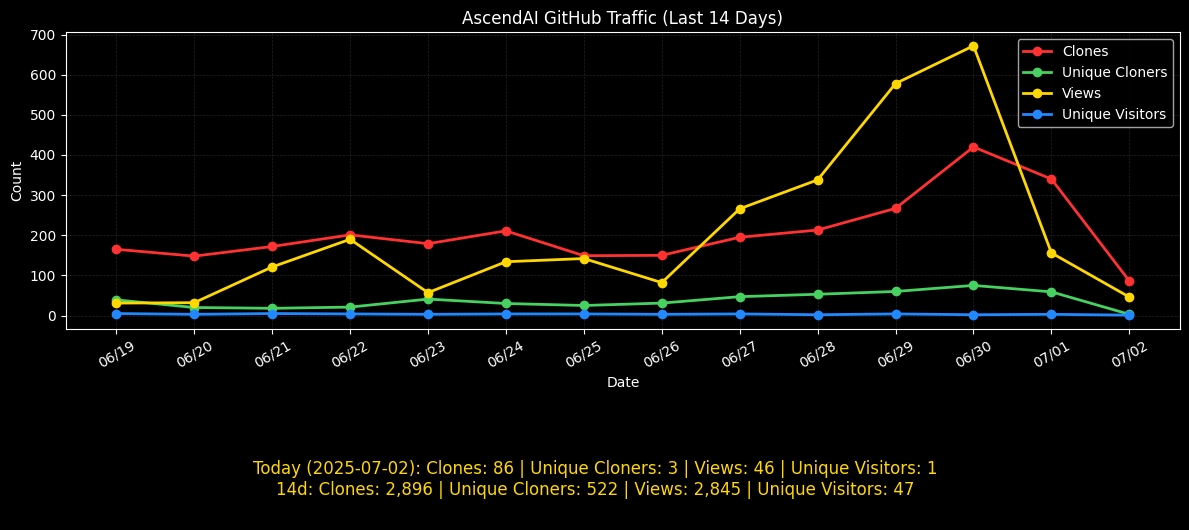
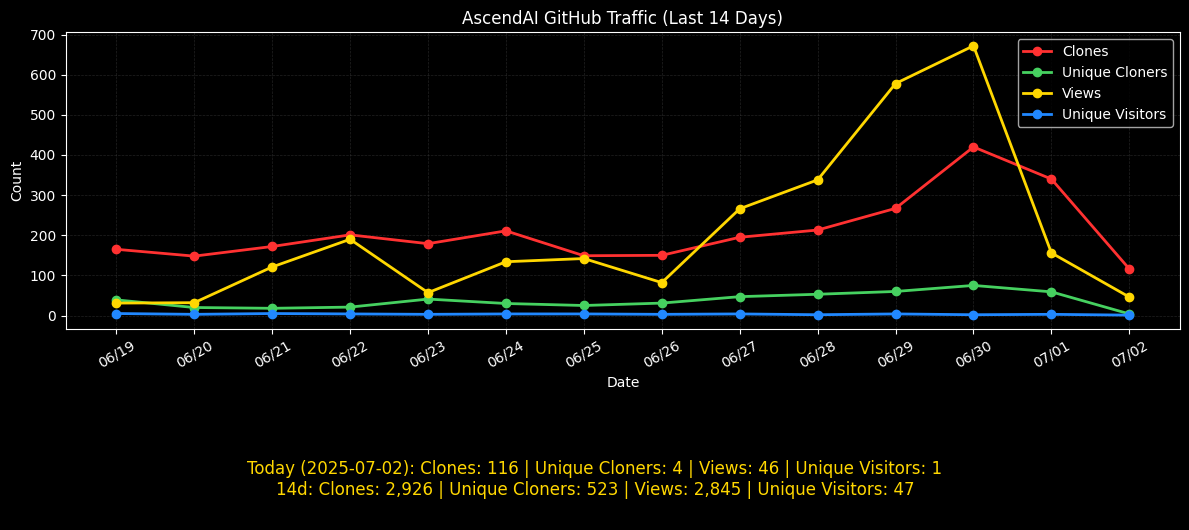
Update traffic data and graph

diff --git a/docs/graph/traffic_totals.md b/docs/graph/traffic_totals.md
@@ -1,6 +1,6 @@
 
 **GitHub Traffic Totals**
 
-- **Today (2025-07-02):** Clones: 86 | Unique Cloners: 3 | Views: 46 | Unique Visitors: 1
-- **Last 14 days:** Clones: 2,896 | Unique Cloners: 522 | Views: 2,845 | Unique Visitors: 47
+- **Today (2025-07-02):** Clones: 116 | Unique Cloners: 4 | Views: 46 | Unique Visitors: 1
+- **Last 14 days:** Clones: 2,926 | Unique Cloners: 523 | Views: 2,845 | Unique Visitors: 47
 - **Lifetime:** Clones: 2,639 | Unique Cloners: 531 | Views: 2,447 | Unique Visitors: 54
